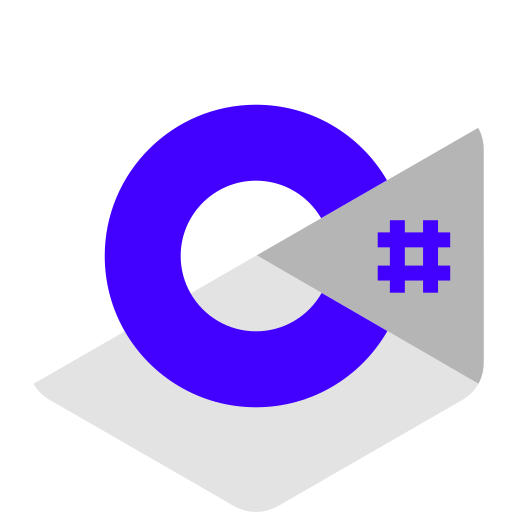
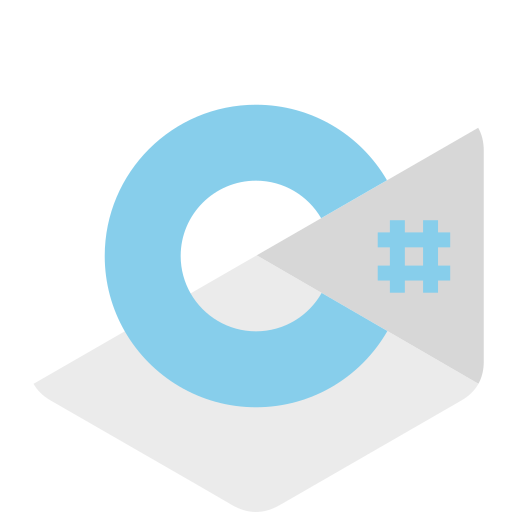
Add files via upload

Changed region(s): [[0.1875, 0.1875, 0.9688, 0.8125]]

diff --git a/styles/style.css b/styles/style.css
@@ -28,7 +28,7 @@ html{
 #header-container header #profile a{
     font-family: 'Poppins', sans-serif;
     font-size: 35px ;
-    color: #4200FF;
+    color: #87CEEB;
     text-decoration: none;
 }
 #header-container header ul{
@@ -44,7 +44,7 @@ html{
     text-decoration: none;
 }
 #header-container header nav ul li a:hover{
-    color: #4200FF;
+    color: #87CEEB;
 }
 #nav-responsive{
     background-color:transparent;
@@ -73,7 +73,7 @@ html{
 }
 #home #content-banner img{
     margin-top: 40px;
-    border: 5px double #4200FF;
+    border: 5px double #87CEEB;
     display: block;
     width: 80%;
     margin: auto;
@@ -102,7 +102,7 @@ html{
     transition: .3s;
 }
 #home #content-banner #social a:hover{
-    background-color: #4200FF;
+    background-color: #87CEEB;
 }
 #about-me{
     background-color: #191919;
@@ -125,7 +125,7 @@ html{
     margin-bottom: 30px;
 }
 #about-me #content-section p span{
-    color: #4200FF;
+    color: #87CEEB;
     font-weight: bold;
 }
 #about-me #info{
@@ -147,11 +147,11 @@ html{
 }
 #about-me #info #personal-info ul li strong{
     display: inline-block;
-    color: #4200FF;
+    color: #87CEEB;
     width: 100px;
 }
 #about-me #info #personal-info ul li span{
-    color: #4200FF;
+    color: #87CEEB;
     padding: 3px;
     font-weight: bold;
     border-radius: 5px;
@@ -166,8 +166,8 @@ html{
    text-align: center;
 }
 #about-me #info #Interest #interest-container #interest{
-    width: 120px;
-    height: 120px;
+    width: 160px;
+    height: 160px;
     background-color:#191919 ;
     border-radius: 10%;
     margin: 15px 15px 15px 25px;
@@ -179,13 +179,13 @@ html{
     transition: .3s;
 }
 #about-me #info #Interest #interest-container #interest:hover{
-    background-color: #4200FF;
+    background-color: #87CEEB;
 }
 #about-me #info #Interest #interest-container #interest i{
     font-size: 25px;
     margin-bottom: 10px;
 }
-#about-me #content-section button{
+#about-me button{
     cursor: pointer;
     background-color: transparent;
     border: 2px solid #fff;
@@ -199,7 +199,11 @@ html{
     position: relative;
     z-index: 10;
 }
-#about-me #content-section button #overlay{
+#about-me button a{
+    color: #fff;
+    text-decoration: none;
+}
+#about-me button #overlay{
     position: absolute;
     top: 0;
     left: 0;
@@ -207,12 +211,12 @@ html{
     bottom: 0;
     width: 0;
     height: 100%;
-    background-color: #4200FF;
+    background-color: #87CEEB;
     border-radius: 5%;
     z-index: -1;
     transition: 1s;
 }
-#about-me #content-section button:hover #overlay{
+#about-me button:hover #overlay{
     width: 100%;
 }
 /*Skills Section*/
@@ -256,7 +260,7 @@ html{
     margin-bottom: 30px;
 }
 #skills #skills #progress{
-    background-color: #4200FF;
+    background-color: #87CEEB;
     position: absolute;
     top: 0;
     left: 0;
@@ -266,7 +270,7 @@ html{
     position: absolute;
     height: 40px;
     width: 40px;
-    background-color: #4200FF;
+    background-color: #87CEEB;
     border-radius: 50%;
     line-height: 40px;
     text-align: center;
@@ -419,15 +423,15 @@ html{
     font-size:  25px;
     font-weight: bold;
     display: inline-block;
-    color: #4200FF;
+    color: #87CEEB;
     width: 100%;
 }
 #education #row #col ul li b a{
-    color: #4200FF;
+    color: #87CEEB;
     text-decoration: none;
 }
 #education #row #col ul li b{
-    color: #4200FF;
+    color: #87CEEB;
 }
 #portfolio{
     background-color: #191919;
@@ -470,7 +474,7 @@ html{
     left: 0;
     right: 0;
     bottom: 0;
-    background: linear-gradient(rgba(66,0,255,0.5),rgba(66,0,255,0.5));
+    background: linear-gradient(rgba(135, 206, 235, 0.7),rgba(135, 206, 235, 0.7));
     display: flex;
     flex-direction: column;
     justify-content: center;
@@ -541,7 +545,7 @@ html{
     bottom: 0;
     width: 0;
     height: 100%;
-    background-color: #4200FF;
+    background-color: #87CEEB;
     border-radius: 5%;
     z-index: -1;
     transition: 1s;
@@ -563,7 +567,7 @@ footer{
     display: block;
     width: 50px;
     height: 50px;
-    background-color: #4200FF;
+    background-color: #87CEEB;
     color: #fff;
     position: absolute;
     left: 50%;
